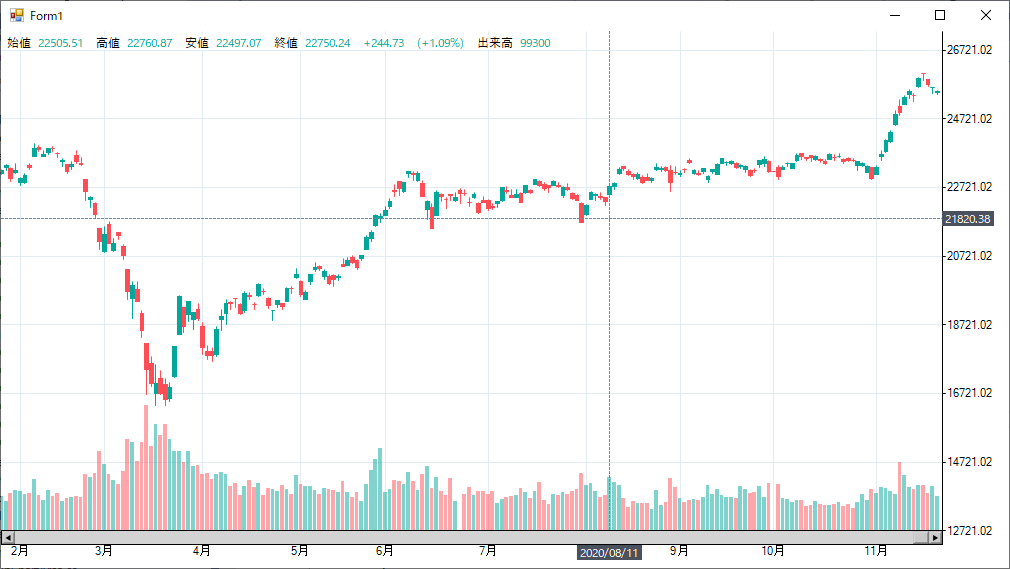
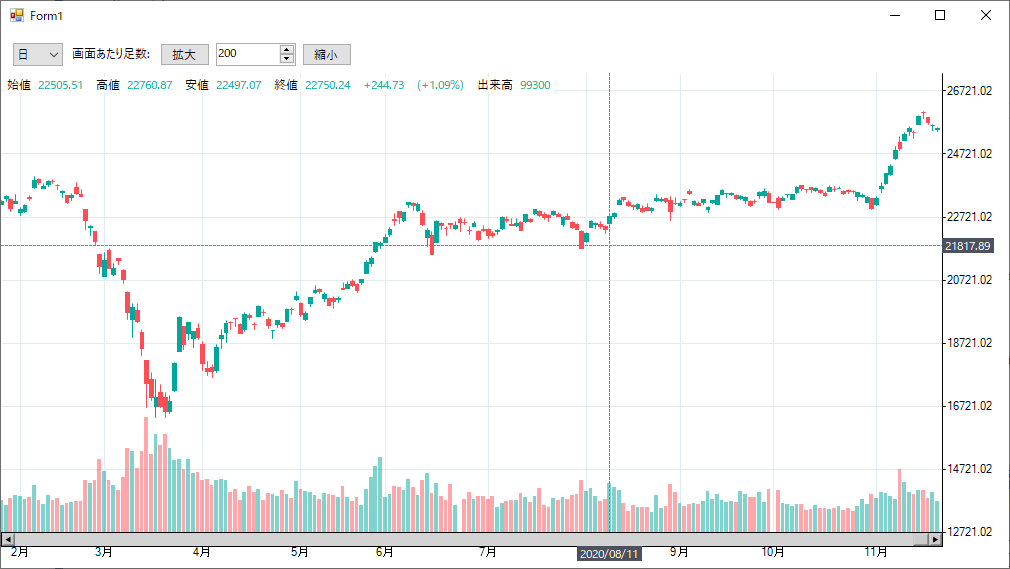
ロウソク足の期間変更、ズーム機能追加

diff --git a/TradingChartSample/Form1.Designer.cs b/TradingChartSample/Form1.Designer.cs
@@ -30,25 +30,106 @@ namespace MagicalNuts.TradingChartSample
 		private void InitializeComponent()
 		{
 			this.tradingChart1 = new MagicalNuts.TradingChart();
+			this.numericUpDown1 = new System.Windows.Forms.NumericUpDown();
+			this.label1 = new System.Windows.Forms.Label();
+			this.button2 = new System.Windows.Forms.Button();
+			this.button1 = new System.Windows.Forms.Button();
+			this.comboBox1 = new System.Windows.Forms.ComboBox();
 			((System.ComponentModel.ISupportInitialize)(this.tradingChart1)).BeginInit();
+			((System.ComponentModel.ISupportInitialize)(this.numericUpDown1)).BeginInit();
 			this.SuspendLayout();
 			// 
 			// tradingChart1
 			// 
+			this.tradingChart1.Anchor = ((System.Windows.Forms.AnchorStyles)((((System.Windows.Forms.AnchorStyles.Top | System.Windows.Forms.AnchorStyles.Bottom) 
+            | System.Windows.Forms.AnchorStyles.Left) 
+            | System.Windows.Forms.AnchorStyles.Right)));
 			this.tradingChart1.CandleTerm = MagicalNuts.CandleTerm.Dayly;
-			this.tradingChart1.Dock = System.Windows.Forms.DockStyle.Fill;
-			this.tradingChart1.Location = new System.Drawing.Point(0, 0);
+			this.tradingChart1.Location = new System.Drawing.Point(0, 42);
 			this.tradingChart1.Margin = new System.Windows.Forms.Padding(3, 4, 3, 4);
 			this.tradingChart1.Name = "tradingChart1";
-			this.tradingChart1.Size = new System.Drawing.Size(1008, 537);
+			this.tradingChart1.Size = new System.Drawing.Size(1008, 495);
 			this.tradingChart1.TabIndex = 0;
 			this.tradingChart1.Text = "tradingChart1";
+			// 
+			// numericUpDown1
+			// 
+			this.numericUpDown1.Location = new System.Drawing.Point(215, 12);
+			this.numericUpDown1.Maximum = new decimal(new int[] {
+            1000,
+            0,
+            0,
+            0});
+			this.numericUpDown1.Minimum = new decimal(new int[] {
+            20,
+            0,
+            0,
+            0});
+			this.numericUpDown1.Name = "numericUpDown1";
+			this.numericUpDown1.Size = new System.Drawing.Size(80, 23);
+			this.numericUpDown1.TabIndex = 12;
+			this.numericUpDown1.Value = new decimal(new int[] {
+            200,
+            0,
+            0,
+            0});
+			this.numericUpDown1.ValueChanged += new System.EventHandler(this.numericUpDown1_ValueChanged);
+			// 
+			// label1
+			// 
+			this.label1.AutoSize = true;
+			this.label1.Location = new System.Drawing.Point(68, 15);
+			this.label1.Name = "label1";
+			this.label1.Size = new System.Drawing.Size(85, 15);
+			this.label1.TabIndex = 11;
+			this.label1.Text = "画面あたり足数:";
+			// 
+			// button2
+			// 
+			this.button2.Location = new System.Drawing.Point(301, 12);
+			this.button2.Name = "button2";
+			this.button2.Size = new System.Drawing.Size(50, 23);
+			this.button2.TabIndex = 10;
+			this.button2.Text = "縮小";
+			this.button2.UseVisualStyleBackColor = true;
+			this.button2.Click += new System.EventHandler(this.button2_Click);
+			// 
+			// button1
+			// 
+			this.button1.Location = new System.Drawing.Point(159, 12);
+			this.button1.Name = "button1";
+			this.button1.Size = new System.Drawing.Size(50, 23);
+			this.button1.TabIndex = 9;
+			this.button1.Text = "拡大";
+			this.button1.UseVisualStyleBackColor = true;
+			this.button1.Click += new System.EventHandler(this.button1_Click);
+			// 
+			// comboBox1
+			// 
+			this.comboBox1.DropDownStyle = System.Windows.Forms.ComboBoxStyle.DropDownList;
+			this.comboBox1.FormattingEnabled = true;
+			this.comboBox1.Items.AddRange(new object[] {
+            "日",
+            "週",
+            "月",
+            "年"});
+			this.comboBox1.Location = new System.Drawing.Point(12, 12);
+			this.comboBox1.Name = "comboBox1";
+			this.comboBox1.Size = new System.Drawing.Size(50, 23);
+			this.comboBox1.TabIndex = 8;
+			this.comboBox1.SelectedIndexChanged += new System.EventHandler(this.comboBox1_SelectedIndexChanged);
 			// 
 			// Form1
 			// 
 			this.AutoScaleDimensions = new System.Drawing.SizeF(7F, 15F);
 			this.AutoScaleMode = System.Windows.Forms.AutoScaleMode.Font;
+			this.BackColor = System.Drawing.Color.White;
 			this.ClientSize = new System.Drawing.Size(1008, 537);
+			this.Controls.Add(this.numericUpDown1);
+			this.Controls.Add(this.label1);
+			this.Controls.Add(this.button2);
+			this.Controls.Add(this.button1);
+			this.Controls.Add(this.comboBox1);
 			this.Controls.Add(this.tradingChart1);
 			this.Font = new System.Drawing.Font("Yu Gothic UI", 9F, System.Drawing.FontStyle.Regular, System.Drawing.GraphicsUnit.Point, ((byte)(128)));
 			this.Margin = new System.Windows.Forms.Padding(3, 4, 3, 4);
@@ -56,13 +137,20 @@ namespace MagicalNuts.TradingChartSample
 			this.Text = "Form1";
 			this.Load += new System.EventHandler(this.Form1_Load);
 			((System.ComponentModel.ISupportInitialize)(this.tradingChart1)).EndInit();
+			((System.ComponentModel.ISupportInitialize)(this.numericUpDown1)).EndInit();
 			this.ResumeLayout(false);
+			this.PerformLayout();
 
 		}
 
 		#endregion
 
 		private MagicalNuts.TradingChart tradingChart1;
+		private System.Windows.Forms.NumericUpDown numericUpDown1;
+		private System.Windows.Forms.Label label1;
+		private System.Windows.Forms.Button button2;
+		private System.Windows.Forms.Button button1;
+		private System.Windows.Forms.ComboBox comboBox1;
 	}
 }
 

diff --git a/TradingChartSample/Form1.cs b/TradingChartSample/Form1.cs
@@ -9,6 +9,8 @@ namespace MagicalNuts.TradingChartSample
 		public Form1()
 		{
 			InitializeComponent();
+
+			comboBox1.SelectedIndex = 0;
 		}
 
 		private void Form1_Load(object sender, EventArgs e)
@@ -20,13 +22,35 @@ namespace MagicalNuts.TradingChartSample
 			sr.Close();
 
 			// デシリアライズ
-			List<DataTypes.Candle> candles = Utf8Json.JsonSerializer.Deserialize<List<DataTypes.Candle>>(str);
+			DataTypes.Candle[] candles = Utf8Json.JsonSerializer.Deserialize<DataTypes.Candle[]>(str);
 
 			// セットアップ
 			tradingChart1.SetUp();
 
 			// 日足設定
 			tradingChart1.SetDailyCandles(candles, 2, CandleTerm.Dayly);
+		}
+
+		private void comboBox1_SelectedIndexChanged(object sender, EventArgs e)
+		{
+			tradingChart1.CandleTerm = (CandleTerm)comboBox1.SelectedIndex;
+		}
+
+		private void numericUpDown1_ValueChanged(object sender, EventArgs e)
+		{
+			tradingChart1.ScreenCandleNum = (int)numericUpDown1.Value;
+		}
+
+		private void button1_Click(object sender, EventArgs e)
+		{
+			if (numericUpDown1.Value - 50 < numericUpDown1.Minimum) numericUpDown1.Value = numericUpDown1.Minimum;
+			else numericUpDown1.Value -= 50;
+		}
+
+		private void button2_Click(object sender, EventArgs e)
+		{
+			if (numericUpDown1.Value + 50 > numericUpDown1.Maximum) numericUpDown1.Value = numericUpDown1.Maximum;
+			else numericUpDown1.Value += 50;
 		}
 	}
 }

diff --git a/TradingChart/TradingChart.cs b/TradingChart/TradingChart.cs
@@ -129,10 +129,10 @@ namespace MagicalNuts
 		/// 日足を設定します。
 		/// </summary>
 		/// <typeparam name="T">ロウソク足の型を指定します。</typeparam>
-		/// <param name="candles">ロウソク足のリスト</param>
+		/// <param name="candles">ロウソク足の配列</param>
 		/// <param name="digits">小数点以下の桁数</param>
 		/// <param name="term">表示するロウソク足の期間</param>
-		public void SetDailyCandles<T>(List<T> candles, int digits, CandleTerm term) where T : DataTypes.Candle
+		public void SetDailyCandles<T>(T[] candles, int digits, CandleTerm term) where T : DataTypes.Candle
 		{
 			// 日足設定
 			DailyCandles = new List<DataTypes.Candle>();
